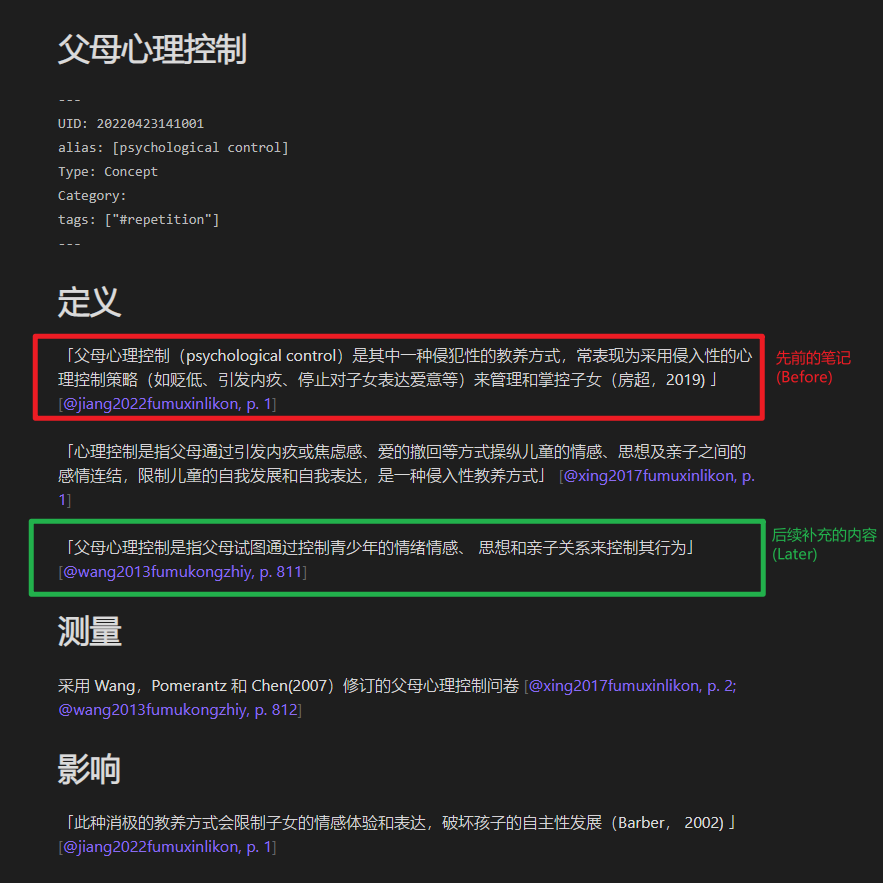
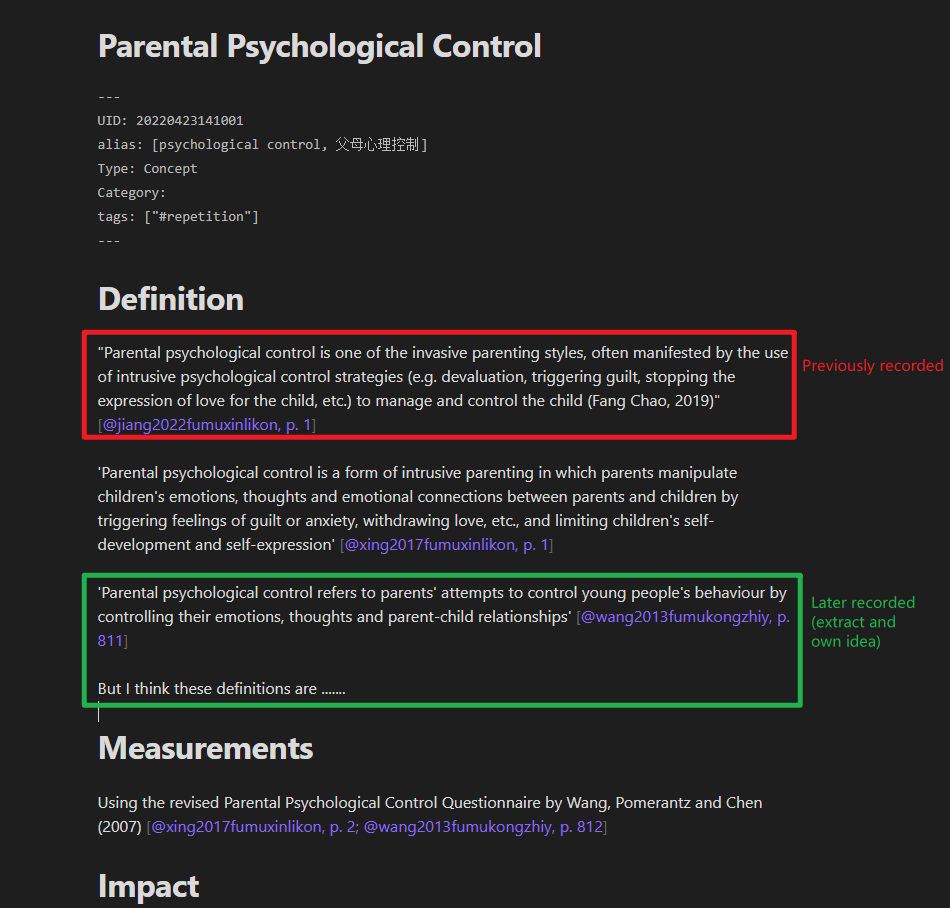
v1.0

diff --git a/README.md b/README.md
@@ -10,7 +10,7 @@ I'm sure many of you, are wondering how to use note taking software, or what the
 
 This question has been bothering me ever since taking notes. I had pinned my hopes on note-taking software, hoping that it would tell me the answer. So over the past few years, I have switched to different note-taking software — Evernote, OneNote, Notion, RoamResearch, Obsidian. Every software has told me that I should build my own second brain, that I should generate new insights from my notes. But how to do this? The softwares didn't tell me the answer.
 
-Thus, I saw this as a methodological problem and turned my attention to various note-taking methods. I hoped that these methods would turn my note-taking software into my second brain and allow me to generate new inspiration from my notes. From the original Luhmann Note Box, to the Zettlekasten, to the later series of methods based on them, I have used each of these methods one by one. More than the note taking software itself, these methods are really teaching me how to organise my notes and how to get new ideas out of them. But I still found it a little bit confusing because these methods were more focused on delivering ideas without giving rigorous steps that could be taken to build a personal system of notes -- they were more about telling me the reason and the vision for doing so. When I tried to understand how to build my own system of knowledge, I was always told: "Everyone's system of knowledge is different, you can't copy me, you have to learn from my ideas and build your own system". However, after six months of studying, I couldn't figure it out. So I started to look for a more rigorous approach.
+Thus, I saw this as a methodological problem and turned my attention to various note-taking methods. I hoped that these methods would turn my note-taking software into my second brain and allow me to generate new inspiration from my notes. From the original Luhmann Note Box, to the Zettlekasten, to the later series of methods based on them, I have used each of these methods one by one. More than the note taking software itself, these methods are really teaching me how to organise my notes and how to get new ideas out of them. But I still found it a little bit confusing because these methods were more focused on delivering ideas without giving rigorous steps that could be taken to build a personal system of notes -- they were more about telling me the reason and the vision for doing so. When I tried to understand how to build my own system of knowledge, I was always told: "Everyone's system of knowledge is different, you can't copy me, you have to learn from my ideas and build your own system". However, after six months of studying, I couldn't figure it out. So I started to look for a more operational approach.
 
 In a roundabout way, in 2020, I came across cognitive psychology, library science and information organisation. Since then, I have been looking at the issue from a more professional perspective, building on the findings of previous research.
 
@@ -61,7 +61,7 @@ All notes reveal their content through their titles. It is important to note tha
 
 It is Important to note that A and B can be concepts or entities, or even relationships. And, there can be more than two objects in the relationship, e.g. "A-B-C-Compare". Also, how you choose these four names is entirely up to you. For the same information, different people may use different titles.
 
-## 2. 步骤
+## 2. Procedure
 
 ### 1. Putting information in notes
 
@@ -69,90 +69,92 @@ It is Important to note that A and B can be concepts or entities, or even relati
 Having understood the above concepts, the next thing we need to do is to write down the information in the corresponding notes according to the following rules:
 
 1) For information that discusses a concept or entity in a comprehensive way, we write it down in the corresponding concept note or entity note.
-2) For information that discusses an aspect of a concept or entity, we write it down in the corresponding concept note or entity note, and then create subheadings in that note. 需要注意的是，有时讨论某个概念某方面的主题也会是一个独立的概念，比如“土豆烹饪”虽然是土豆的一方面，但它可以成为单独的概念笔记，因此我们要把这些内容独立出来。
+2) For information that discusses an aspect of a concept or entity, we write it down in the corresponding concept note or entity note, and then create subheadings in that note. It is important to note that sometimes a topic that discusses an aspect of a concept can also be a separate concept. For example, although 'potato cooking' is an aspect of potatoes, it can also be considered as a separate concept, so we should write about it in a separate concept note.
 3) For information that discusses a relationship between A and B, we jot it down in the corresponding relationship note and also link the current relationship note in the concept note or entity note involved in that relationship, for instance `[[A]] -> [[A-compare-B]] <- [[B]]`. Of course, very often the relationship between A and B is very simple, e.g. `A's father is B`. In this case, it is not necessary to create a special relationship note, instead we can just use a link. For example, in note A: `A's father is [[B]]`.
 
 It is important to note that when taking notes, we need to indicate the source of the information through the pandoc reference syntax.
+
+### 2. Wrapping up
+
+Again, there are three steps here: 
+
+1. Spotting potential relationships. After taking the information into the relevant notes, we also look for missing or potential relationships in the notes. If there is a simple relationship, such as `A's mother is C`, we link the related concept or entity using square brackets, like `A's mother is [[C]]`. If there is a complex relationship, we create a relationship note and extract the relevant content into the relationship note.
+2. Splitting up separate concepts. As mentioned earlier, as more content is recorded under a subheading in the concept notes and we learn more about it, we may find that it is actually also a unique concept or we may see it as a concept ourselves. Therefore, we need to separate out this section as well. My potato cooking method, for example, may not be a concept for you, but I can think of it as a unique concept called *ryooo's potato cooking method*.
+3. Classifying and archiving. Finally, we need to choose a taxonomy for the archiving of the notes taken. Dewey Decimal Classification, Library of Congress Classification, para, any classification will be fine. On the one hand, this is to avoid future system lag caused by too many files in the same folder, and on the other hand it gives a new perspective for future searches ( classification searches). This step is not necessary, however.
 
 The following GIF shows the entire process in a more visual way.
 
 ![Pasted image 20221007203325](Attachments/Pasted%20image%2020221007203325.gif)
 
-### 2. 收尾
+## 3. Some things to keep in mind
 
-1. 链接潜在链接
-2. 拆分内容
-3. 归档。选择一种分类法对笔记进行归类。这一方面避免未来同一文件夹下过多文件而造成系统卡顿，也给未来 的检索提供新的角度（分类检索）。当然这一步并不是必要的。
+The 'information' in the above can be either extracts from articles or your own unique ideas. The KG notes method is therefore a way of organising personal information, focusing more on how to organise the information rather than telling you what information should be written down. (I don't actually think this is something that knowledge organisations should be concerned with.)
 
-## 3. 一些注意事项
-
-上文中的信息可以是摘录也可以是想法。因此，kg法是一种个人信息组织方法，更侧重如何组织信息，而不是告诉你应该记什么。
-
-另外，我们可以随意创建概念笔记，但需要概念笔记的名称能够汇聚信息。一般来说，大家都用的概念肯定可以创建概念笔记。而一些只有你自己使用的概念同样也可以创建概念笔记，毕竟这是你自己的知识管理系统。因此，创建概念笔记的核心是概念笔记能汇聚一些信息。
+In addition, the naming of concept notes is relatively arbitrary, as the essence of concept notes is to use the title as a retrieval symbol for the content in the notes. Therefore, this retrieval symbol we can either use a commonly accepted concept name or our own habitual concept name, as long as we ourselves know which information the symbol refers to.
 
 # Ⅲ. Examples of features
 
-综上，KG 笔记法具有知识融合、高效检索和简单推理三个特点，接下来本库将对这三个用法进行进一步说明。
+In summary, the KG notes method is characterised by three features: knowledge integration, efficient retrieval and simple deduction, and these three usages will be further explained in this vault.
 
-## 知识融合
+## 1. Knowledge integration
 
-知识融合是高效检索的前提，也是个人知识管理系统和图书馆最大的区别。毕竟讲述同一个主题的书可以由不同的作者出版成百上千本，但对于个人来说，一个主题的知识就应当汇聚在一起，方便我们后期利用时一次性检索完全。由于 KG 笔记法以严格控制的标题为检索符号，因此我们在记录新知识时能很方便地将同一个主题的知识内容记录到同一篇笔记上，从而把相同主题的知识融合在一起。
+Knowledge integration is a precondition for efficient retrieval and is the biggest difference between a personal knowledge management system and a library. After all, hundreds of books on the same subject can be published by different authors, but for the individual, knowledge on a single subject should be brought together so that we can easily retrieve it all at once when we need it.
 
-比如，无论是现在还是未来，当我看了关于“父母心理控制”的文章，想摘抄原文或产生了新想法新洞见时，我都能轻松地找到《父母心理控制》这篇笔记，将摘录或灵感登记于其上，方便我后续检索利用。
+For example, now and in the future, when I read an article about "Parental Psychological Control" and want to extract the original text or have a new idea about this topic, I can easily find the note Parental Mind Control" and record the extract or inspiration on it, which I can easily retrieve and use later.
 
-![[Pasted image 20221007193220.png]]
+![](Attachments/Pasted%20image%2020221007193220.png)
 
-## 高效检索
+## Efficiently search
 
-与侧重于搜索的方法不同，KG 法将工作重心前移到了组织环节，将严格控制的标题作为检索符号，以降低后期检索的复杂性。
+In contrast to search-focused methods, the KG notes method moves the focus forward to organisation, using strictly controlled titles as retrieval symbols to reduce the complexity of searches.
 
-比如，当我想要进一步查找“父母心理控制”相关内容时，我只需要在 Obsidian 的快速切换中输入“父母心理控制”即可定位到相关笔记，并在该笔记中通过小标题进一步定位所需信息。而当我想查找“父母心理控制和外化问题行为之间的关系的时候”，我只要输入“父母心理控制-关系-外化问题行为”即可定位到相关笔记。（你们也可以试试）
+For example, when I want to find out more about "parental psychological control", I simply type `parental psychological control` into Obsidian's quick switcher so that I can find the relevant note. Then I can use the outline of this note to find the information I need in the corresponding subheadings. When I want to find information about "The impact of parental psychological control on externalising problem behaviour", I just type in `(parental psychological control) - impact - (externalising problem behaviour)` to locate the relevant note. (You can try this too)
 
-![[Pasted image 20221006143631.gif]]
+![](Attachments/Pasted%20image%2020221006143631.gif)
 
-当然，很多时候一个概念不会只有一个名称。因此，KG 法进一步借鉴了叙词语言的词形控制和词义控制思想，利用 Obsidian 的别名来解决概念的多名称问题。比如查找父母心理控制相关内容，我也可以使用“psychological control”这一英文概念名称。
+Of course, very often a concept does not have only one name. Therefore, the KG notes method further draws on the ideas of morphological control and lexical control in subject terms, using Obsidian aliases to solve the problem of multiple names for concepts. For example, if I were to look up parental psychological control, I could also use the Chinese concept name '父母心理控制'.
 
-![[Pasted image 20221006145129.gif]]
-最后，如果我重读了笔记中的内容但仍然无法理解时，我可以通过笔记末尾的 pandoc 引用语法 `[@citekey, page]`，使用 [Quicker动作](https://getquicker.net/Sharedaction?code=d76ca089-0769-4a61-8a63-08d916bcf619) 快速跳转回原文献 PDF，从而结合上下文进一步回忆理解笔记内容。
+![](Attachments/Pasted%20image%2020221006145129.gif)
 
-![[Pasted image 20221006145916.gif]]
+Finally, if I reread something in my notes but still can't understand it, I can use the pandoc reference syntax `[@citekey, page]` at the end of my notes to use [Quicker action](https://getquicker.net/Sharedaction?code=d76ca089-0769 -4a61-8a63-08d916bcf619) to quickly jump back to the original PDF to further understand the notes in context.
 
-## 知识推理
+![](Attachments/Pasted%20image%2020221006145916.gif)
 
-KG 法的另一特征就是将标题作为语义化的检索符号，结合知识图谱的思想，从而能一定程度上基于笔记内容对潜在关系进行推理。
+## Knowledge deduction
 
-比如，当我需要写一篇关于“父母控制是否会导致孩子焦虑”的论文时，我可以通过 Path-finder 插件检索以《父母控制》这篇笔记为起点、以《焦虑》这篇笔记为终点的路径图。
+Another feature of the KG notes method is the use of titles as semantic retrieval symbols, combined with the idea of knowledge graphs, thus enabling a certain degree of deduction of potential relationships based on the content of the notes.
 
-![[Pasted image 20221006150351.gif]]
+For example, when I need to write a paper on "Does parental control cause anxiety among children", I can use the Path-finder plugin to create a path map starting with the note *Parental control* and ending with the note *Anxiety*.
 
-如结果所示， Path-finder 插件为我绘制了十余条可能的路径。
+![](Attachments/Pasted%20image%2020221006150351.gif)
 
+As you can see, the Path-finder plugin drew more than ten possible paths for me.
 
-![[Pasted image 20221006102437.png]]
+![](Attachments/Pasted%20image%2020221011211426.png)
 
-接下来我需要做的，只需要判断哪条路径在逻辑上最为可行即可。并且，由于 KG 法知识融合的特性，每篇笔记都汇聚了所有关于其标题的内容，因此我不必再打开文献库查找原始文献，而只需要打开路径上的笔记即可对路径进行深入研究。
+All I had to do next was to determine which path was the most logically possible. And, thanks to the knowledge integration characteristic of the KG notes method, each note brings together all the content about its title. So instead of opening the literature management software to find the original literature, I can simply open the notes on the paths and do a deeper dive into the paths.
 
-![[Pasted image 20221006150723.png]]
+![](Attachments/Pasted%20image%2020221011211543.png)
 
-# 三、场景示例：应用 KG 法于写作
+# IV. Example scenario: applying the KG notes method to writing
 
-在 KG 法的帮助下，使用笔记输出文章就变得比较具有实际操作性了：
+With the help of the KG notes method, it becomes more operational to use notes to produce articles:
 
-1. 可以在大脑中或 Obsidain 中随意漫游节点，想想看哪两个节点可能存在关联。
-2. 使用 Path-finder 来计算这两个节点间的潜在逻辑路径。
-3. 在计算结果中找到我们觉得逻辑上最为可行的那条路径。
-4. 阅读路径上经过的笔记，进一步研究这条路径是否切实可行。
-5. 将路径代表的逻辑转换为文章。文章所需要使用的引文可从笔记中直接获取，一般无需重新翻阅文献库。
-6. 利用 Pandoc 排版，并自动生成参考文献，
-7. 发表/发布文章。
+1. Feel free to roam around the nodes in your brain or in Obsidain to see which two nodes might be related.
+2. Use Path-finder to calculate a potential logical path between these two nodes.
+3. Find the path that we feel is most logically feasible from the results of the calculation.
+4. read the notes passed on the path to further investigate whether this path is feasible.
+5. Translate the logic represented by the path into an article. The citations needed for the article can be obtained directly from the notes and there is usually no need to go back through the literature management software.
+6. using Pandoc to layout and automatically generate references.
+7. publish the article in a journal or blog.
 
-# 未来与展望
+# V. Prospect
 
-示例到这里就结束了。其实将 Obsidian 用于知识管理和知识输出并不是门槛极高的事，并不需要我们把插件商店的六百多个插件研究透彻，关键在于我们是否真的去记录和管理了我们的知识。
+This is the end of the example. In fact, it is not difficult to use Obsidian for knowledge management and knowledge production, we don't need to study the 600+ plugins in the plugin shop thoroughly, the key is whether we have actually recorded and managed our knowledge.
 
-当然，从理论上来说，KGnotes 也有着自己的限制：
+In theory, of course, KG notes method has its own limitations.
 
-1）三元组理论本身就不适合表达非常复杂的主题。所以在实践中对于复杂主题我们一般只能用最简单的标题去概括。（对于这个限制，如果你了解知识图谱相关知识并有更好的解决办法，欢迎联系我！）
-2）与知识图谱一样，知识的推理需要还要较大的节点与联系才能实现。
+1) The triplet theory itself is not suitable for expressing very complex topics. So in practice, we can only use the simplest titles to summarise complex topics. (If you know anything about knowledge graphs and have a better solution to this limitation, please contact me!)
+2) As with knowledge graphs, knowledge deduction requires a large number of nodes and connections to achieve.
 
-不过，从我7k余篇笔记的实践来看，以上限制并不太影响我们日常使用。根据以往学员的反馈，本方法平均练习记录几十篇笔记后即可上手。如果在使用中遇到了疑惑，或是想将方法应用到自己所从事的领域，欢迎通过[Obsidian 中文论坛](https://forum-zh.obsidian.md/u/ryooo/summary)、[知乎](https://www.zhihu.com/people/rao-yao-47-68)或 [邮箱](kgnotes@163.com) 联系我，我会和你一同探索。
+Overall, however, from my practice of over 7,000 notes, the above limitations do not affect our daily use too much. According to feedback from other users, this method can be mastered after practising taking a few dozen notes on average. If you encounter doubts in using it, or would like to apply the method to your own field, please feel free to contact me, and I will explore with you.

diff --git a/100_Philosophy and psychology/150_Psychology/Parental Psychological Control.md b/100_Philosophy and psychology/150_Psychology/Parental Psychological Control.md
@@ -1,0 +1,35 @@
+---
+UID: 20220423141001
+alias: [psychological control, 父母心理控制]
+Type: Concept
+Category: 
+tags: ["#repetition"]
+---
+
+# Definition
+
+"Parental psychological control is one of the invasive parenting styles, often manifested by the use of intrusive psychological control strategies (e.g. devaluation, triggering guilt, stopping the expression of love for the child, etc.) to manage and control the child (Fang Chao, 2019)" [@jiang2022fumuxinlikon, p. 1]
+
+'Parental psychological control is a form of intrusive parenting in which parents manipulate children's emotions, thoughts and emotional connections between parents and children by triggering feelings of guilt or anxiety, withdrawing love, etc., and limiting children's self-development and self-expression' [@xing2017fumuxinlikon, p. 1]
+
+'Parental psychological control refers to parents' attempts to control young people's behaviour by controlling their emotions, thoughts and parent-child relationships' [@wang2013fumukongzhiy, p. 811]
+
+But I think these definitions are .......
+
+# Measurements
+
+Using the revised Parental Psychological Control Questionnaire by Wang, Pomerantz and Chen (2007) [@xing2017fumuxinlikon, p. 2; @wang2013fumukongzhiy, p. 812]
+
+# Impact
+
+"Such negative parenting styles can limit children's emotional experiences and expressions and undermine their autonomy (Barber, 2002)" [@jiang2022fumuxinlikon, p. 1]
+
+- [[父母心理控制-关系-外化问题行为]]
+- [[(parental psychological control) - impact - (externalising problem behaviour)]]
+- [[父母心理控制-关系-内化问题行为]]
+- [[(Parental Psychological Control)-Impact-(IPB)]]
+- [[父母心理控制-影响-问题性网络使用]]
+- [[父母心理控制-影响-网络游戏成瘾]]
+- [[PC-Impact-Depression]]
+- [[PC-Impact-NP]]
+- [[(Parental Psychological Control)-Impact-(Self-control)]]

diff --git a/100_Philosophy and psychology/150_Psychology/Externalizing Problem Behavior.md b/100_Philosophy and psychology/150_Psychology/Externalizing Problem Behavior.md
@@ -13,6 +13,6 @@ tags: ["#repetition"]
 # 影响因素
 
 - [[父母心理控制-关系-外化问题行为]]
-- [[(Psychological Control)-Impact-(EPB)]]
+- [[(parental psychological control) - impact - (externalising problem behaviour)]]
 - [[(Negative Perfectionism)-Impact-EPB]]
 - [[BC-Impact-EPB]]

diff --git a/100_Philosophy and psychology/150_Psychology/Internalizing Problem Behavior.md b/100_Philosophy and psychology/150_Psychology/Internalizing Problem Behavior.md
@@ -13,5 +13,5 @@ tags: ["#repetition"]
 # 影响因素
 
 - [[父母心理控制-关系-内化问题行为]]
-- [[(Psychological Control)-Impact-(IPB)]]
+- [[(Parental Psychological Control)-Impact-(IPB)]]
 - [[(Negative Perfectionism)-Impact-IPB]]

diff --git a/100_Philosophy and psychology/150_Psychology/Self-control.md b/100_Philosophy and psychology/150_Psychology/Self-control.md
@@ -13,7 +13,7 @@ Self-control has been defined as the eﬀort that is exerted to regulate the sel
 
 # 影响因素
 
-- [[(Psychological Control)-Impact-(Self-control)]]
+- [[(Parental Psychological Control)-Impact-(Self-control)]]
 
 # 影响
 

diff --git a/100_Philosophy and psychology/150_Psychology/Parental Control.md b/100_Philosophy and psychology/150_Psychology/Parental Control.md
@@ -8,5 +8,5 @@ tags: ["#repetition"]
 
 # 分类
 
-- [[Psychological Control]]
+- [[100_Philosophy and psychology/150_Psychology/Parental Psychological Control]]
 - [[Behavioral Control]]
